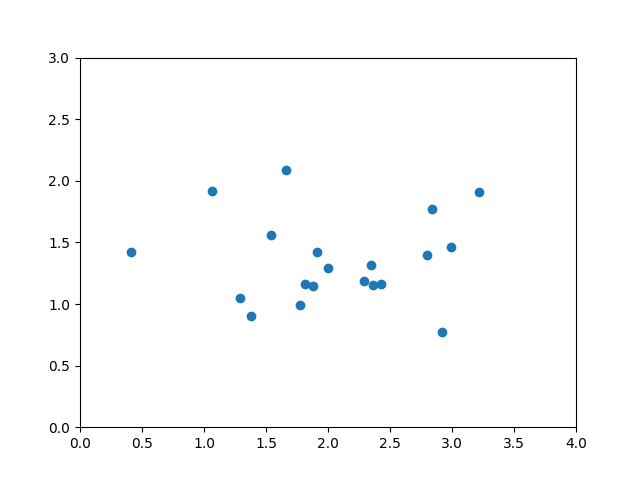
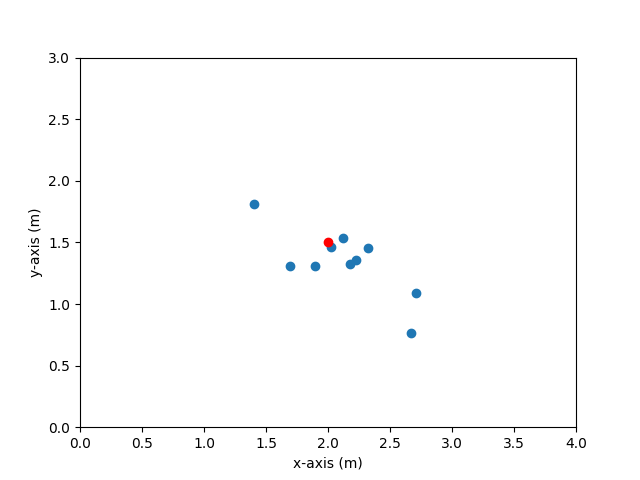
added localization test results

diff --git a/test_localize.py b/test_localize.py
@@ -1,4 +1,4 @@
-from localization.tri_utils import pick_anchors, get_distance, trilateration, plot_on_grid
+from localization.tri_utils import pick_anchors, get_distance, get_point_distance, trilateration, plot_on_grid
 import matplotlib.pyplot as plt
 
 # Process Data Files
@@ -18,51 +18,55 @@ for i in range(len(anchor_nomenclature)):
 		line = line.strip('\n')
 		line = line.split(' ')
 		temp_rssi.append(float(line[1]))
-	#print(temp_rssi)
 	
 	temp_dist = []
 	for line in dist_flist[i].readlines():
 		line = line.strip('\n')
 		line = line.split(' ')
 		temp_dist.append(float(line[1]))
-	#print(temp_dist)
 	
 	cases = min([len(temp_rssi),len(temp_dist)]) 
-	for j in range(cases):
+	cases = 10
+	for j in range(40,50):
 		if anchor_nomenclature[i] in anchors:
 			anchors[anchor_nomenclature[i]].append([temp_rssi[j], temp_dist[j]]) 
 		else:
 			anchors[anchor_nomenclature[i]] = [[temp_rssi[j], temp_dist[j]]]
-	
-#print(anchors)
+
+# Trilaterate
 x_plt = []
 y_plt = []
+pt_dist = []
+w = 3.0
+l = 4.0
+poi_x = 2
+poi_y = 1.5
 for i in range(cases):
 	temp_anchors = {}
 	for j in range(len(anchor_nomenclature)):
 		temp_anchors[anchor_nomenclature[j]] = anchors[anchor_nomenclature[j]][i]
-	
-	#print(temp_anchors)
 	selected = pick_anchors(temp_anchors)
-	#print(selected)
-
-	w = 3.0
-	l = 4.0
 
 	d = [0, 0, 0]
 	for i in range(3):
 		d[i] = selected[list(selected)[i]]
-		
-	#print(d)	
+
 	x,y = trilateration(d[0], d[1], d[2], w, l, 0.0)
-	#print('{}, {}'.format(x,y))
 	new_x, new_y = plot_on_grid(x,y,l,w,list(selected)[0])
+	new_d = get_point_distance(poi_x, poi_y, new_x, new_y)
+	print('{}, {}, {}'.format(new_x, new_y, new_d))
+
 	x_plt.append(new_x)
 	y_plt.append(new_y)
-	
+	pt_dist.append(new_d)
+
+print(sum(pt_dist)/len(pt_dist))
 plt.figure(0)
 plt.xlim(0, 4)
 plt.ylim(0, 3)
+plt.xlabel("x-axis (m)")
+plt.ylabel("y-axis (m)")
 plt.scatter(x_plt, y_plt)
+plt.scatter(poi_x,poi_y, color='r')
 plt.savefig("localize_plot.png")
 	

diff --git a/main.py b/main.py
@@ -13,8 +13,8 @@ authorized = ['b8:27:eb:ca:80:6c']
 kf = KalmanFilter1D()
 
 if __name__ == "__main__":
-    rssi_file = open("rssiD.txt", "a")
-    dist_file = open("distD.txt", "a")
+    rssi_file = open("rssiA.txt", "a")
+    dist_file = open("distA.txt", "a")
     
     A = 1
     B = 0

diff --git a/localization/tri_utils.py b/localization/tri_utils.py
@@ -45,3 +45,6 @@ def plot_on_grid(x, y, l, w, ref):
 		return l-x,w-y
 	else:
 		return l-y,x
+
+def get_point_distance(x1,y1,x2,y2):
+	return sqrt((x2-x1)**2 + (y2-y1)**2)
